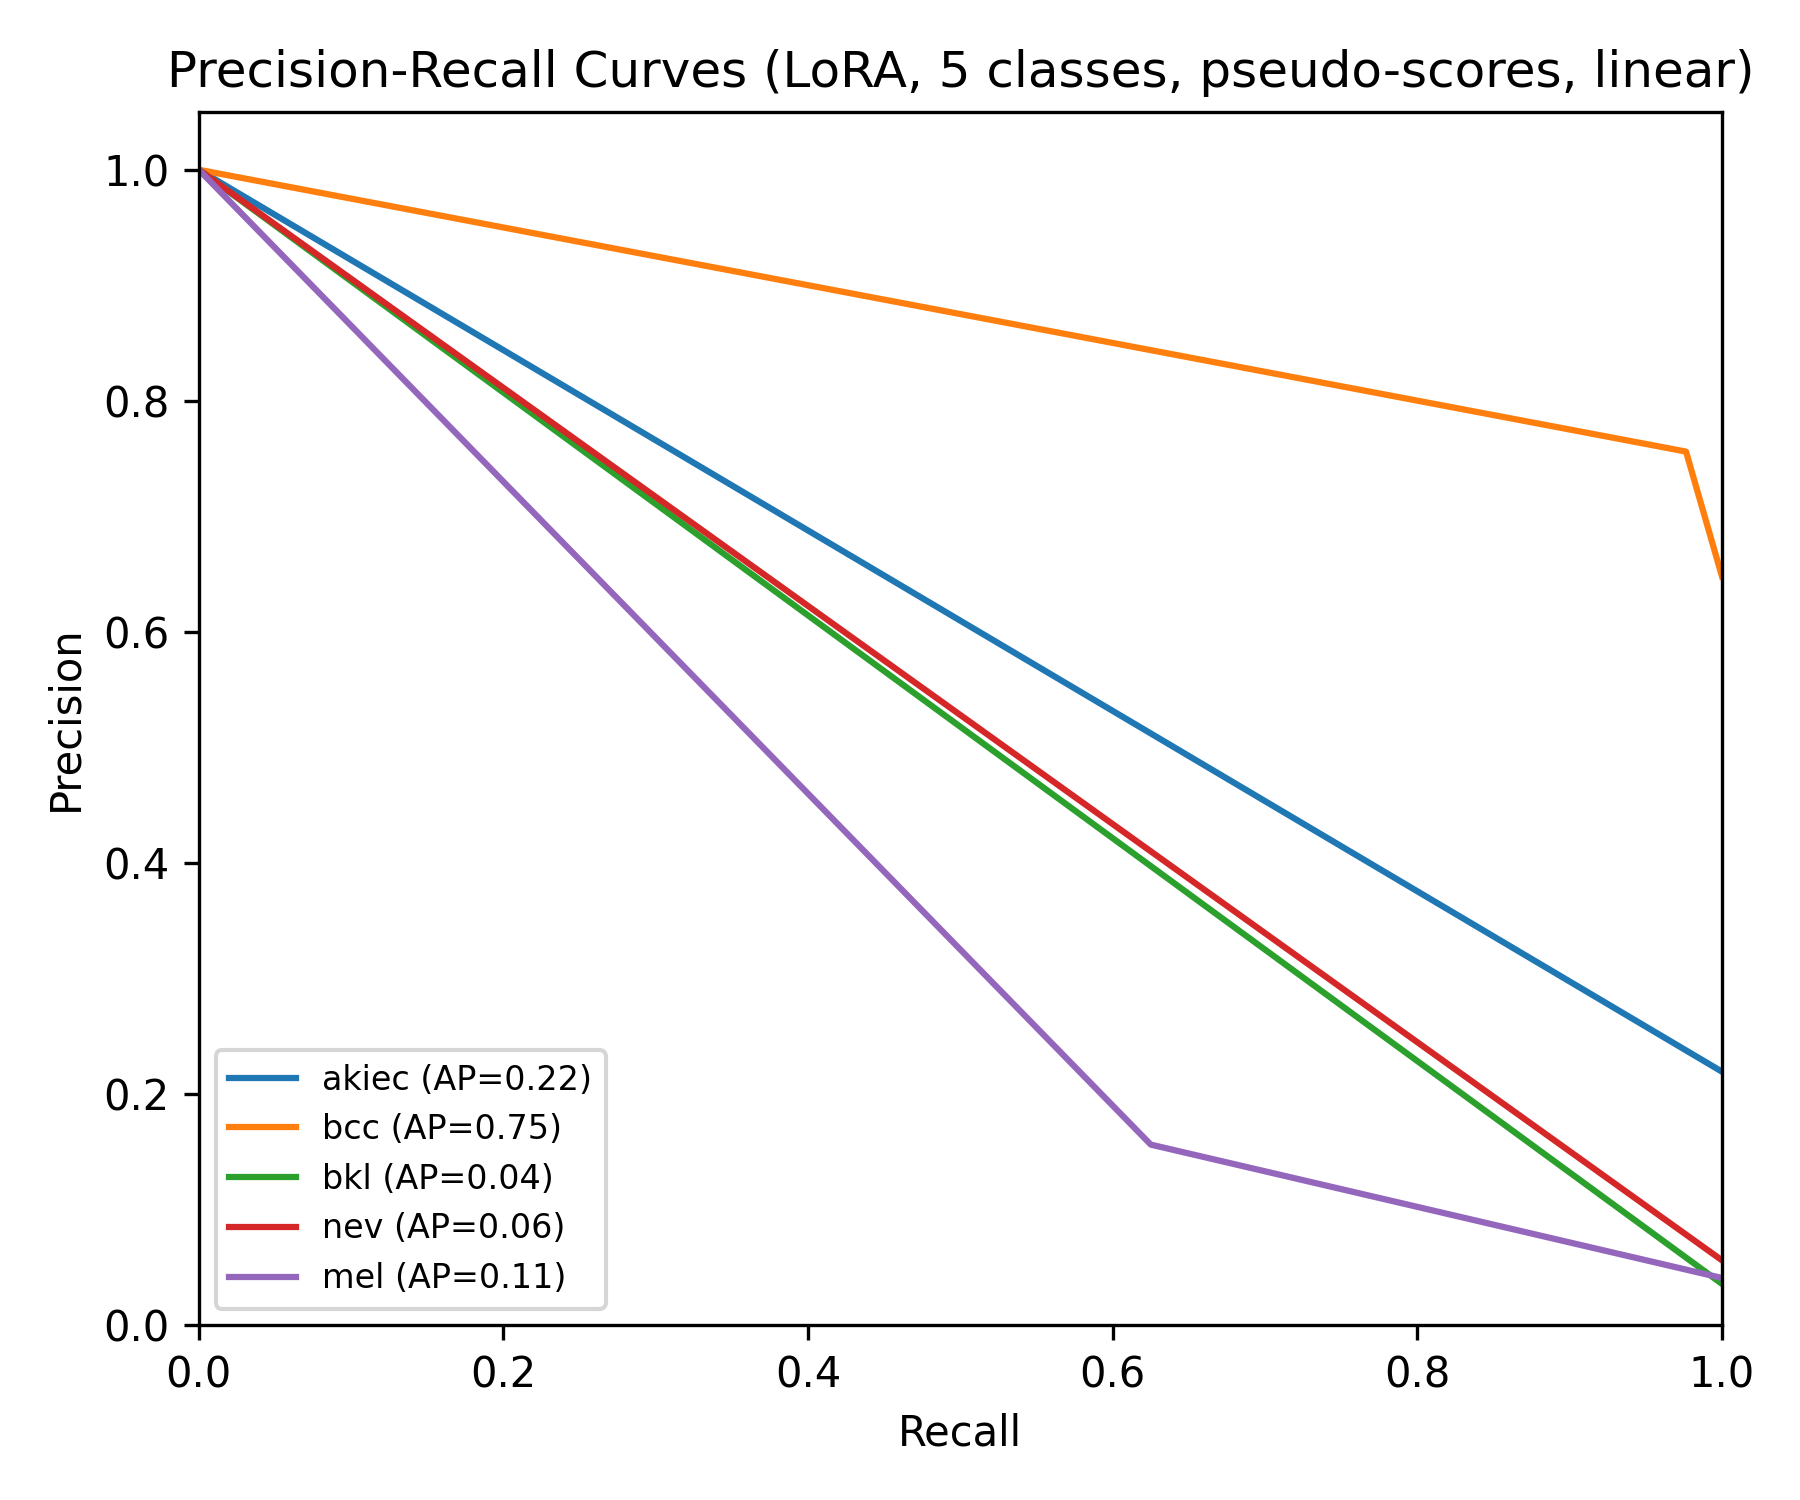
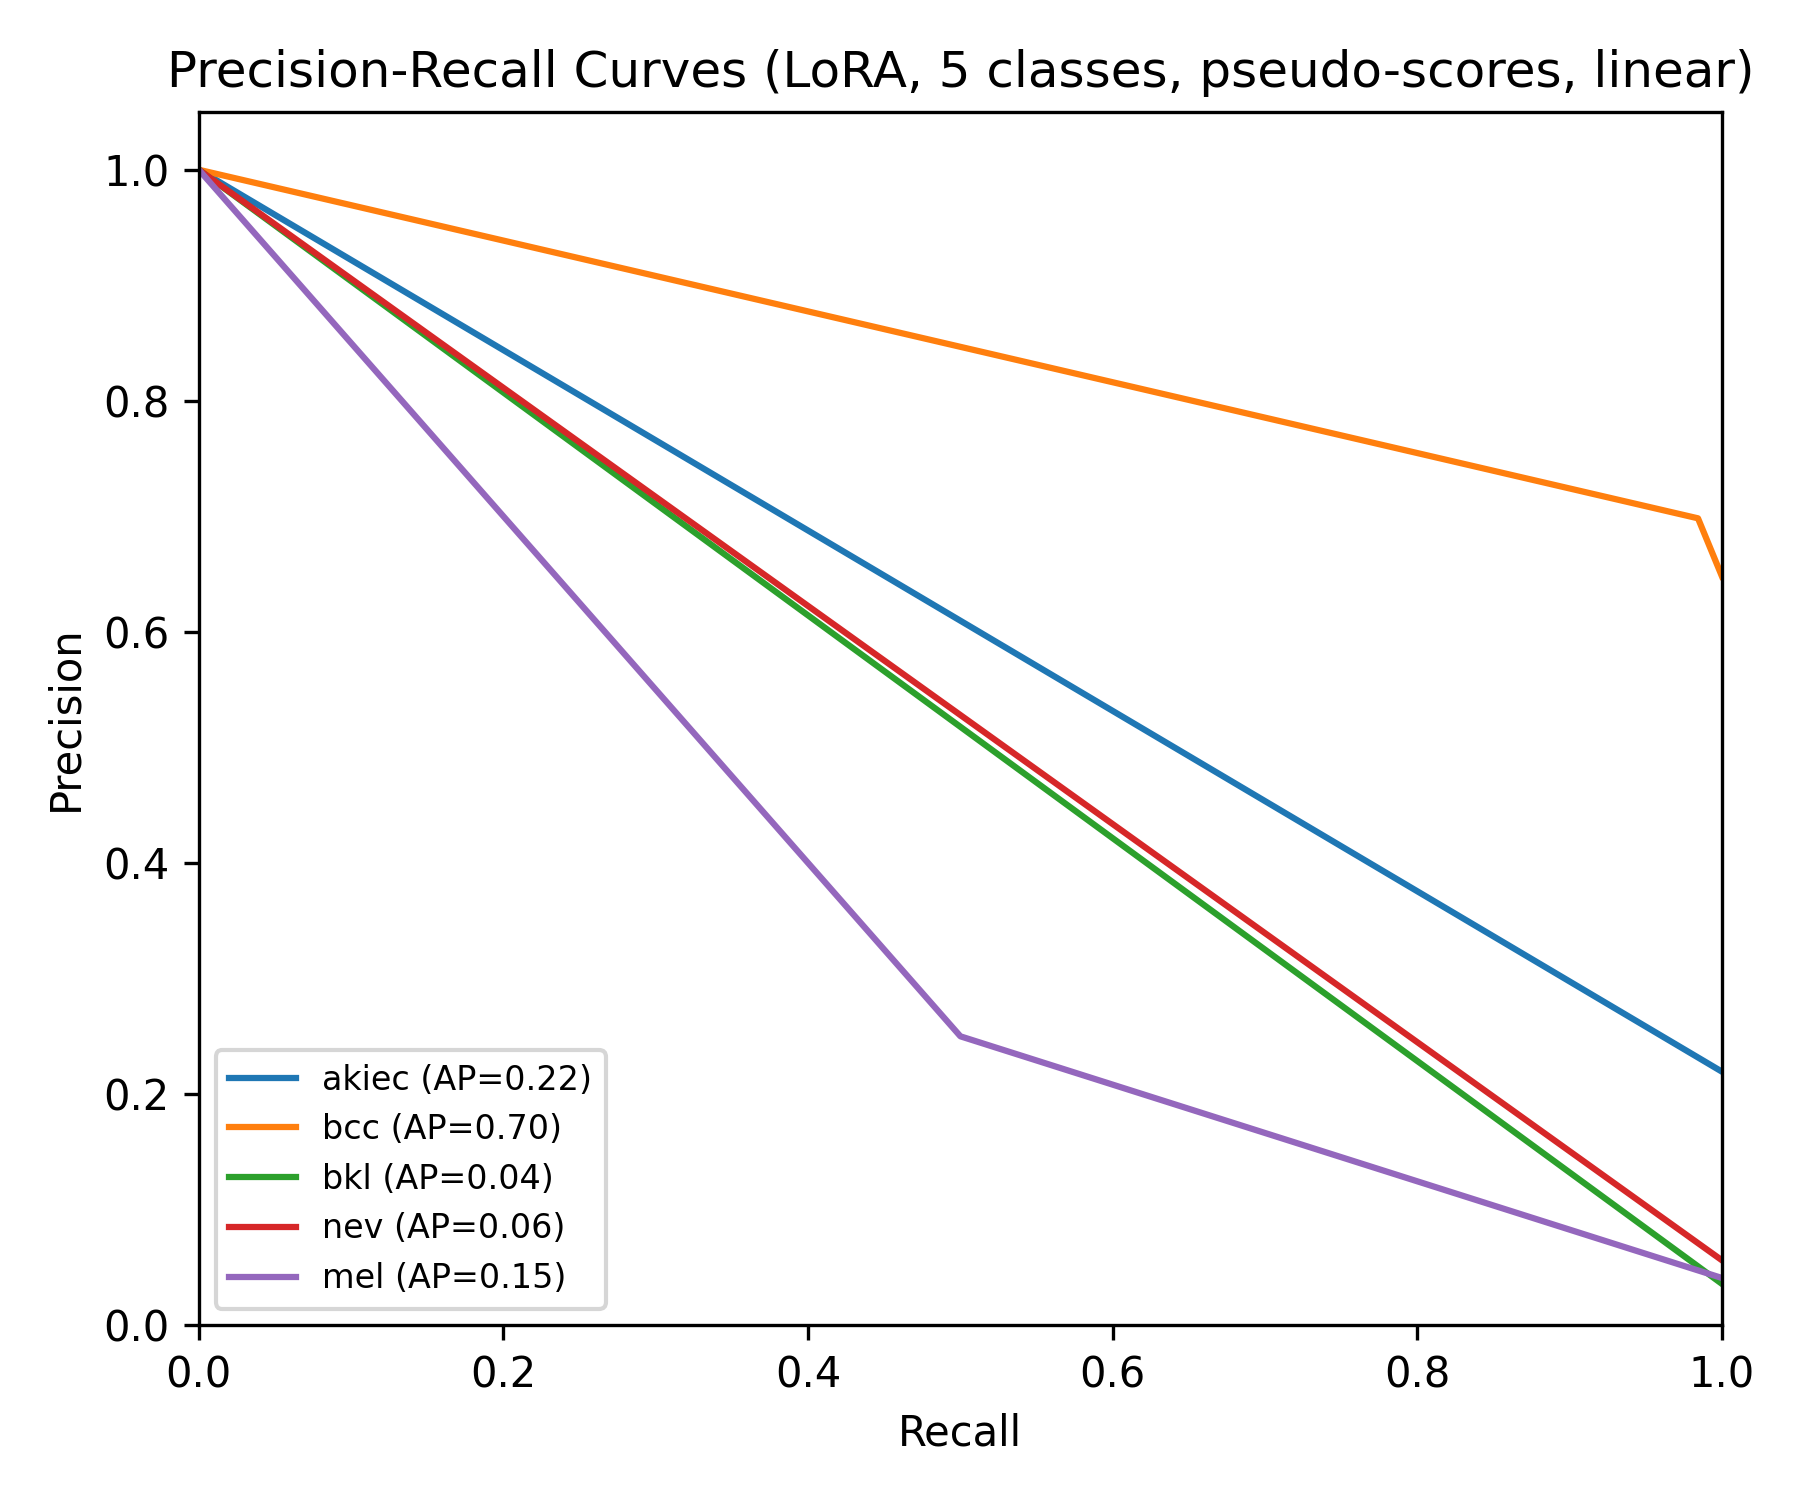
11.26

diff --git a/evaluate_medgamma.py b/evaluate_medgamma.py
@@ -39,7 +39,7 @@ TEST_CSV  = r"C:\Users\zhangrx59\PycharmProjects\LoRA\metadata_test.csv"
 
 
 # LoRA 权重所在目录（要和 LoRA_medgamma.py 里的 OUTPUT_DIR 一致）
-LORA_DIR = r"C:\Users\zhangrx59\PycharmProjects\LoRA\lora_focal_with_resnet_prior"
+LORA_DIR = r"C:\Users\zhangrx59\PycharmProjects\LoRA\lora_focal_with_resnet_prior_softmax5"
 
 # 图像根目录和后缀
 IMAGE_ROOT_DIR = r"C:\Users\zhangrx59\PycharmProjects\LoRA\ISIC_dataset"

diff --git a/Lora_ResNet.py b/Lora_ResNet.py
@@ -728,11 +728,11 @@ def main():
 
     training_args = TrainingArguments(
         output_dir=OUTPUT_DIR,
-        num_train_epochs=4,
+        num_train_epochs=20,
         per_device_train_batch_size=1,
         per_device_eval_batch_size=1,
         gradient_accumulation_steps=8,
-        learning_rate=1e-6,
+        learning_rate=1e-7,
         lr_scheduler_type="cosine",
         warmup_ratio=0.1,
         logging_steps=10,
